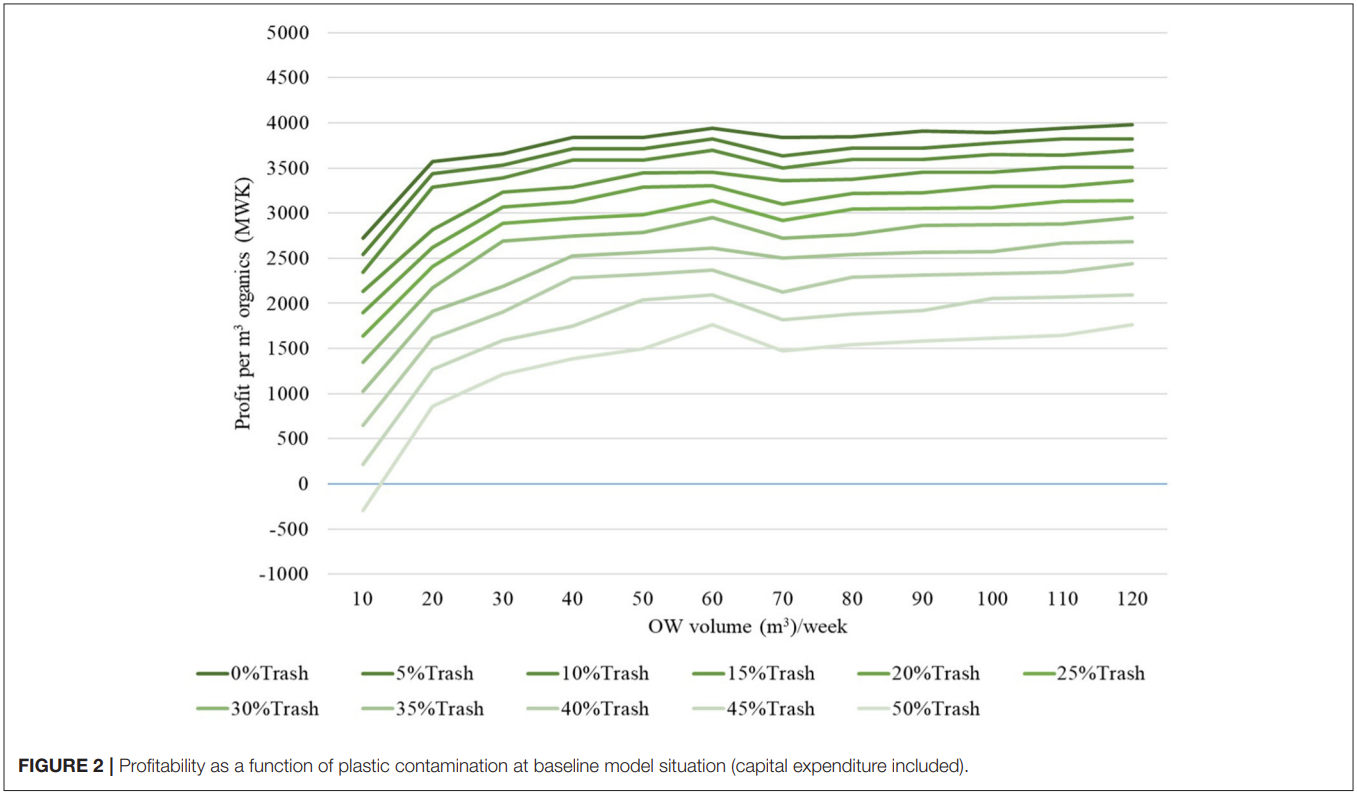
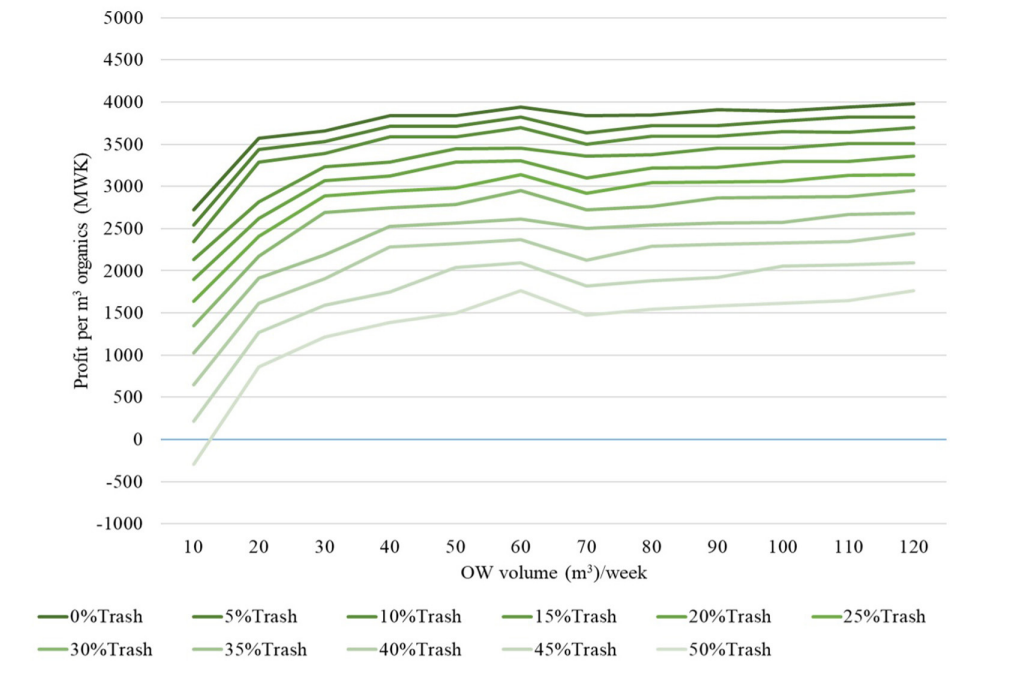
filled out the slides

diff --git a/docs/index.html b/docs/index.html
@@ -340,16 +340,27 @@ Presented by Eric, Yasemin, Sven and Till
 </section>
 <section id="research-question" class="slide level2">
 <h2>Research Question</h2>
-<p>Here goes the research question</p>
+<p>How does the contamination of organic waste with plastics affect the profitability of compost production in urban Blantyre, Malawi?</p>
 </section>
-<section id="sampling-strategy" class="slide level2">
+<section id="sampling-strategy" class="slide level2 smaller">
 <h2>Sampling Strategy</h2>
-<p>who or what did they measure/sample</p>
+<ol type="1">
+<li><strong>Labor Survey with Time-Driven Activity-Based Costing (TDABC)</strong>
+<ul>
+<li><p>Identify the types and duration of each activity required.</p></li>
+<li><p>Make a detailed account of the time that each activity takes, and the human and material resources allocated.</p></li>
+</ul></li>
+<li><strong>Cost Model</strong>
+<ul>
+<li><p>Combine data from TDABC with capital (land, infrastructure and building, utility connections, consulting/advisory fees, etc.) and operating costs (labor, equipment, personal protective equipment (PPE), etc.).</p></li>
+<li><p>Model the profitability dependent on different parameters.</p></li>
+</ul></li>
+</ol>
 </section>
 <section id="key-findings" class="slide level2">
 <h2>Key Findings</h2>
 
-<img data-src="compost_figure2.png" class="r-stretch"></section>
+<img data-src="compost_figure2.png" class="r-stretch quarto-figure-center"><p class="caption">Profitability as a function of plastic contamination at baseline model situation (capital expenditure excluded).</p></section>
 <section id="data-table-spreadsheet" class="slide level2">
 <h2>Data Table Spreadsheet</h2>
 <p><a href="https://docs.google.com/spreadsheets/d/1iCn5nPic_lFhmgPZAEoYQ-COB8P8uYFXefyfvok3bdc/edit#gid=345392398">Google Sheets for md-08 “The Cost of Plastics in Compost”</a></p>
